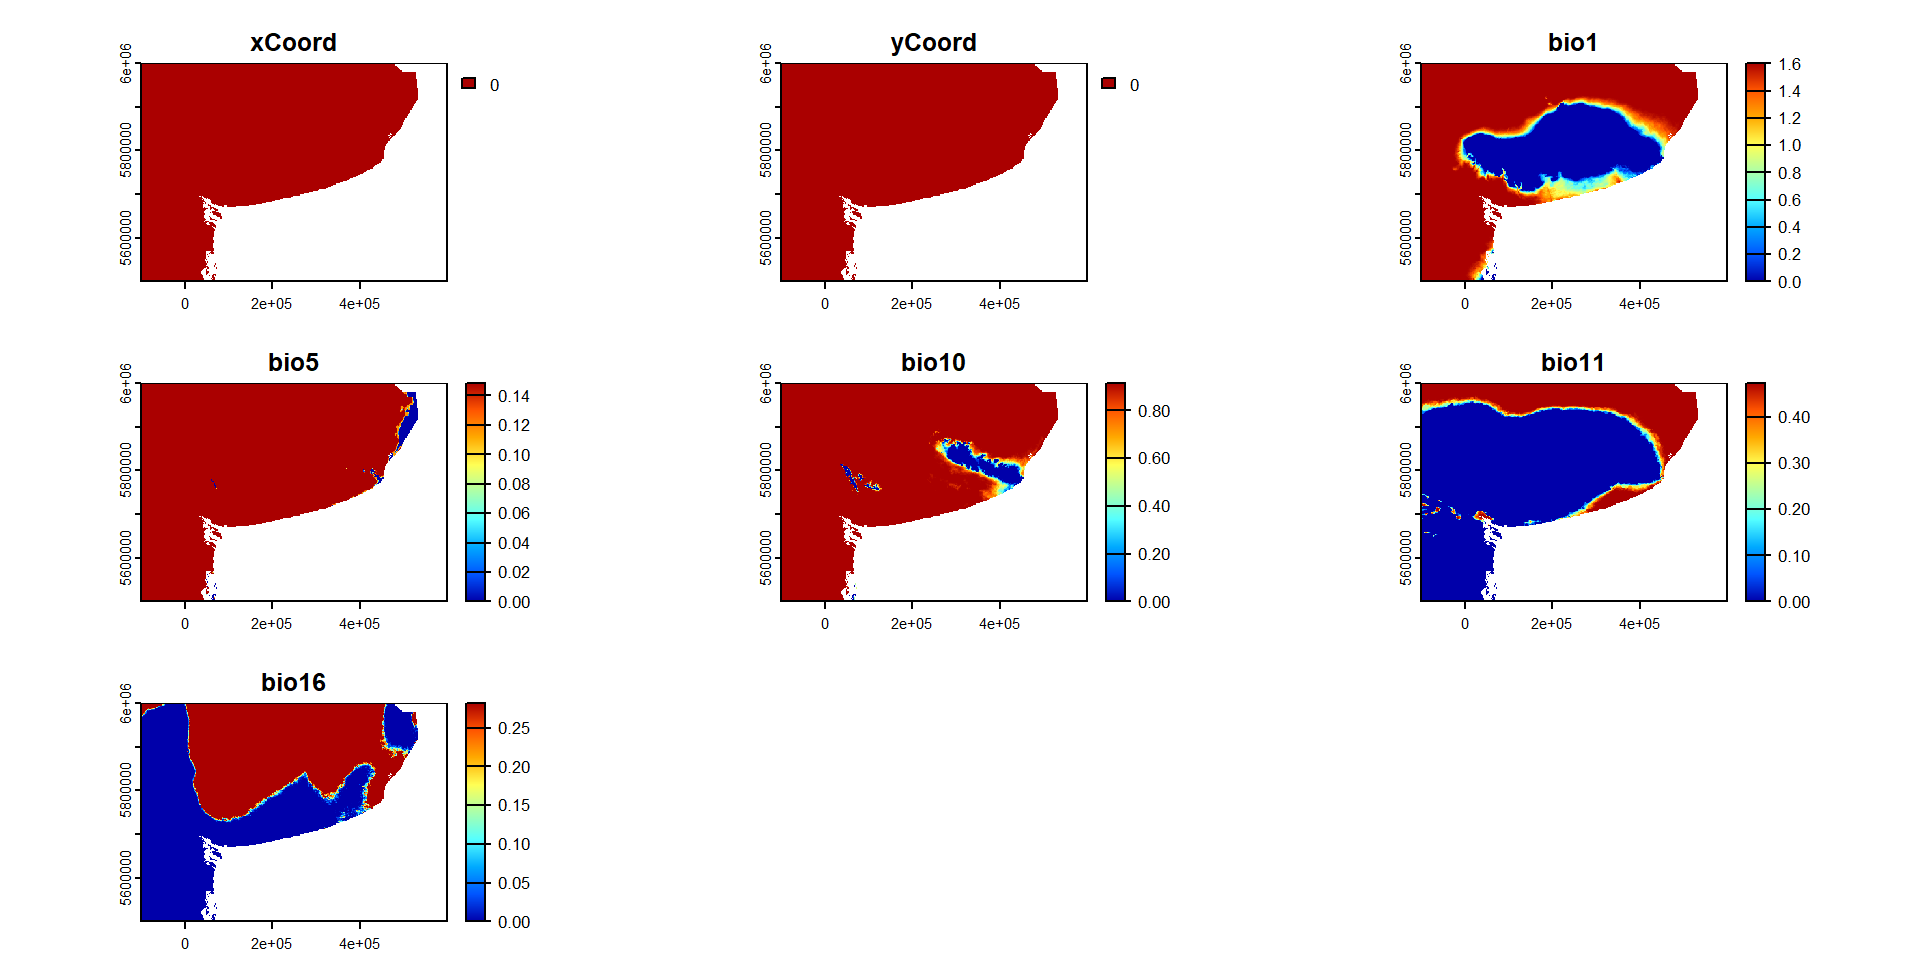
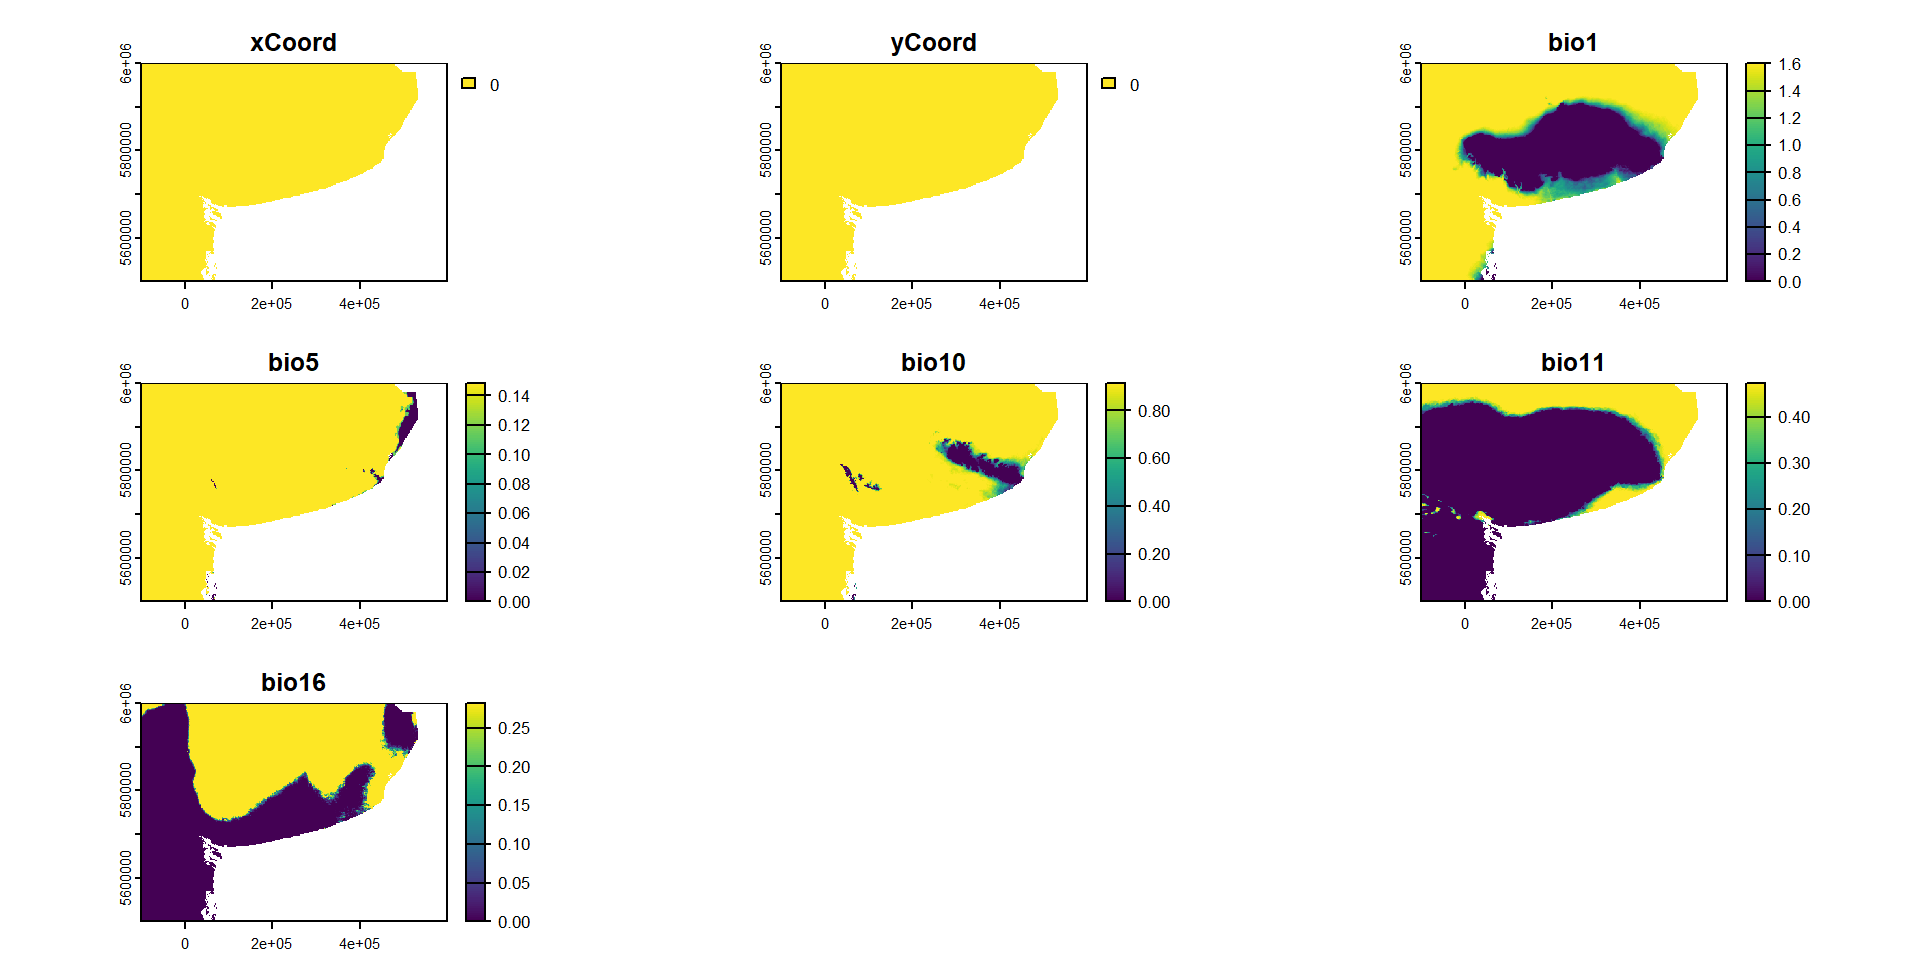
Built site for gh-pages

diff --git a/AEMER-4_GDM.html b/AEMER-4_GDM.html
@@ -618,7 +618,7 @@ chapad_f_d.5           17.2         2.49  8.90</code></pre>
 <pre><code>[1] 
 [1] 
 [1] GDM Modelling Summary
-[1] Creation Date:  Thu Oct 24 23:00:44 2024
+[1] Creation Date:  Thu Oct 24 23:19:35 2024
 [1] 
 [1] Name:  gdmTab.fit
 [1] 
@@ -696,7 +696,7 @@ chapad_f_d.5           17.2         2.49  8.90</code></pre>
 <pre><code>[1] 
 [1] 
 [1] GDM Modelling Summary
-[1] Creation Date:  Thu Oct 24 23:00:44 2024
+[1] Creation Date:  Thu Oct 24 23:19:35 2024
 [1] 
 [1] Name:  gdmRast.fit
 [1] 
@@ -1013,14 +1013,14 @@ dimensions  : 500, 700, 7  (nrow, ncol, nlyr)
 resolution  : 1000, 1000  (x, y)
 extent      : -100055.4, 599944.6, 5500177, 6000177  (xmin, xmax, ymin, ymax)
 coord. ref. : WGS 84 / UTM zone 21S (EPSG:32721) 
-source      : spat_9cd07f796864_40144_o8up7yuDdJ6XHBX.tif 
+source      : spat_1e486d47d28_7752_o8up7yuDdJ6XHBX.tif 
 names       : xCoord, yCoord,     bio1,      bio5,     bio10,     bio11, ... 
 min values  :      0,      0, 0.000000, 0.0000000, 0.0000000, 0.0000000, ... 
 max values  :      0,      0, 1.603295, 0.1485767, 0.9152355, 0.4735476, ... </code></pre>
 </div>
 </div>
 <div class="cell">
-<div class="sourceCode cell-code" id="cb25"><pre class="sourceCode numberSource r number-lines code-with-copy"><code class="sourceCode r"><span id="cb25-1"><a></a>terra<span class="sc">::</span><span class="fu">plot</span>(gdmRast.sp_trans, <span class="at">col=</span>colorRamps<span class="sc">::</span><span class="fu">rgb.tables</span>(<span class="dv">1000</span>))</span></code><button title="Copy to Clipboard" class="code-copy-button"><i class="bi"></i></button></pre></div>
+<div class="sourceCode cell-code" id="cb25"><pre class="sourceCode numberSource r number-lines code-with-copy"><code class="sourceCode r"><span id="cb25-1"><a></a>terra<span class="sc">::</span><span class="fu">plot</span>(gdmRast.sp_trans)</span></code><button title="Copy to Clipboard" class="code-copy-button"><i class="bi"></i></button></pre></div>
 <div class="cell-output-display">
 <div>
 <figure>
@@ -1068,9 +1068,7 @@ max values  :      0,      0, 1.603295, 0.1485767, 0.9152355, 0.4735476, ... </c
 <span id="cb28-2"><a></a>                    bioclim, </span>
 <span id="cb28-3"><a></a>                    <span class="at">time =</span> T, </span>
 <span id="cb28-4"><a></a>                    <span class="at">predRasts =</span> fut_bioclim)</span>
-<span id="cb28-5"><a></a><span class="fu">library</span>(colorRamps)</span>
-<span id="cb28-6"><a></a>terra<span class="sc">::</span><span class="fu">plot</span>(timePred, </span>
-<span id="cb28-7"><a></a>            <span class="at">col =</span> <span class="fu">rgb.tables</span>(<span class="dv">1000</span>))</span></code><button title="Copy to Clipboard" class="code-copy-button"><i class="bi"></i></button></pre></div>
+<span id="cb28-5"><a></a>terra<span class="sc">::</span><span class="fu">plot</span>(timePred)</span></code><button title="Copy to Clipboard" class="code-copy-button"><i class="bi"></i></button></pre></div>
 <div class="cell-output-display">
 <div>
 <figure>
@@ -1562,7 +1560,7 @@ max values  :      0,      0, 1.603295, 0.1485767, 0.9152355, 0.4735476, ... </c
       }
     });
     </script>
-    <script>var lightboxQuarto = GLightbox({"loop":false,"closeEffect":"zoom","openEffect":"zoom","selector":".lightbox","descPosition":"bottom"});
+    <script>var lightboxQuarto = GLightbox({"selector":".lightbox","loop":false,"openEffect":"zoom","closeEffect":"zoom","descPosition":"bottom"});
     (function() {
       let previousOnload = window.onload;
       window.onload = () => {

diff --git a/AEMER-3_Analisis_multivariante.html b/AEMER-3_Analisis_multivariante.html
@@ -1610,7 +1610,7 @@ Site_11 Site_12 Site_13 Site_14 Site_15 Site_16 Site_17 Site_18 Site_19 Site_20
       }
     });
     </script>
-    <script>var lightboxQuarto = GLightbox({"openEffect":"zoom","selector":".lightbox","descPosition":"bottom","loop":false,"closeEffect":"zoom"});
+    <script>var lightboxQuarto = GLightbox({"loop":false,"descPosition":"bottom","openEffect":"zoom","closeEffect":"zoom","selector":".lightbox"});
     (function() {
       let previousOnload = window.onload;
       window.onload = () => {

diff --git a/AEMER-3_Ejercicios.html b/AEMER-3_Ejercicios.html
@@ -1040,7 +1040,7 @@ window.document.addEventListener("DOMContentLoaded", function (event) {
 });
 </script>
 </div> <!-- /content -->
-<script>var lightboxQuarto = GLightbox({"descPosition":"bottom","selector":".lightbox","closeEffect":"zoom","openEffect":"zoom","loop":false});
+<script>var lightboxQuarto = GLightbox({"selector":".lightbox","loop":false,"descPosition":"bottom","openEffect":"zoom","closeEffect":"zoom"});
 (function() {
   let previousOnload = window.onload;
   window.onload = () => {

diff --git a/AEMER-2_Ejercicios.html b/AEMER-2_Ejercicios.html
@@ -980,7 +980,7 @@ window.document.addEventListener("DOMContentLoaded", function (event) {
 });
 </script>
 </div> <!-- /content -->
-<script>var lightboxQuarto = GLightbox({"selector":".lightbox","descPosition":"bottom","openEffect":"zoom","loop":false,"closeEffect":"zoom"});
+<script>var lightboxQuarto = GLightbox({"descPosition":"bottom","closeEffect":"zoom","loop":false,"openEffect":"zoom","selector":".lightbox"});
 (function() {
   let previousOnload = window.onload;
   window.onload = () => {

diff --git a/AEMER-2_Analisis_espacial.html b/AEMER-2_Analisis_espacial.html
@@ -2141,7 +2141,7 @@ attr(,"package")
       }
     });
     </script>
-    <script>var lightboxQuarto = GLightbox({"selector":".lightbox","loop":false,"openEffect":"zoom","descPosition":"bottom","closeEffect":"zoom"});
+    <script>var lightboxQuarto = GLightbox({"loop":false,"closeEffect":"zoom","openEffect":"zoom","selector":".lightbox","descPosition":"bottom"});
     (function() {
       let previousOnload = window.onload;
       window.onload = () => {

diff --git a/AEMER-5_HMSC.html b/AEMER-5_HMSC.html
@@ -1408,7 +1408,7 @@ $C.RMSE
       }
     });
     </script>
-    <script>var lightboxQuarto = GLightbox({"closeEffect":"zoom","descPosition":"bottom","loop":false,"openEffect":"zoom","selector":".lightbox"});
+    <script>var lightboxQuarto = GLightbox({"loop":false,"descPosition":"bottom","selector":".lightbox","openEffect":"zoom","closeEffect":"zoom"});
     (function() {
       let previousOnload = window.onload;
       window.onload = () => {
